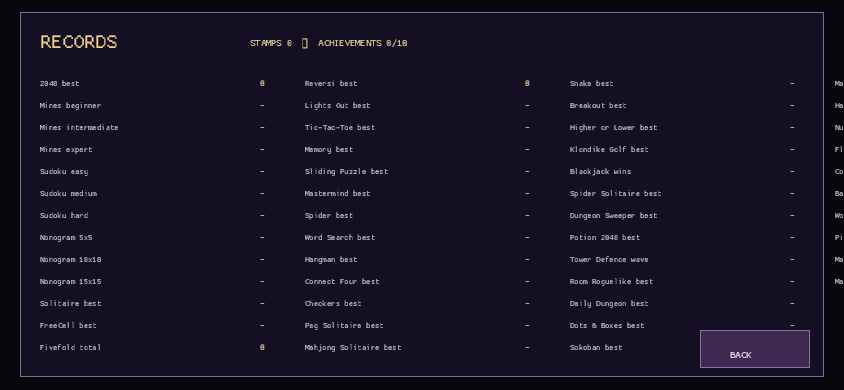
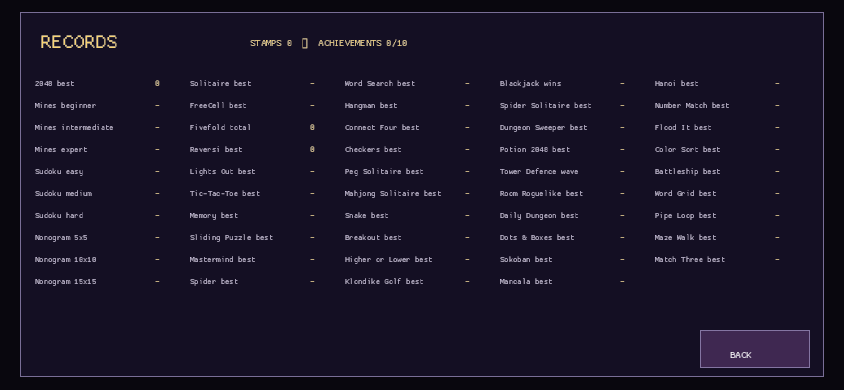
The quiet milestones fit every drawer (full-cabinet records capacity polish)
Desktop and medium-landscape records now reflow all forty-three game entries into compact columns that stay inside their panels. Portrait records retain their readable two-column layout and clear BACK control, and the refreshed captures document the complete records surface.\n\nThe full test, lint, size, capture, and publisher gates pass for the expanded collection.

diff --git a/src/records_ui.rs b/src/records_ui.rs
@@ -221,31 +221,24 @@ pub fn draw_records(state: &AppState) {
             value(state.records.match_three_best_score.map(u32::from)),
         ),
     ];
-    draw_column(&left, 175., 240.);
-    draw_column(&middle, 490., 240.);
-    draw_column(&right, 805., 240.);
-    draw_column(&far_right, 980., 240.);
+    let mut rows = Vec::new();
+    rows.extend(left);
+    rows.extend(middle);
+    rows.extend(right);
+    rows.extend(far_right);
+    for (index, (label, score)) in rows.iter().enumerate() {
+        let column = index / 10;
+        let row = index % 10;
+        let x = 160. + column as f32 * 200.;
+        let y = 240. + row as f32 * 32.;
+        draw_text(label, x, y, 10., Color::new(0.78, 0.73, 0.86, 1.));
+        draw_text(score, x + 150., y, 11., Color::new(0.98, 0.83, 0.45, 1.));
+    }
     panel(
         Rect::new(930., 590., 180., 48.),
         Color::new(0.25, 0.16, 0.32, 1.),
     );
     draw_text("BACK", 990., 621., 18., WHITE);
-}
-fn draw_column(entries: &[(&str, String)], x: f32, y: f32) {
-    for (index, (label, value)) in entries.iter().enumerate() {
-        let column = index / 9;
-        let row = index % 9;
-        let left = x + column as f32 * 175.;
-        let top = y + row as f32 * 42.;
-        draw_text(label, left, top, 13., Color::new(0.78, 0.73, 0.86, 1.));
-        draw_text(
-            value,
-            left + 145.,
-            top,
-            14.,
-            Color::new(0.98, 0.83, 0.45, 1.),
-        );
-    }
 }
 pub fn records_clicks(p: Vec2) -> Vec<UiAction> {
     if Rect::new(930., 590., 180., 48.).contains(p) {

diff --git a/src/responsive_landscape_library.rs b/src/responsive_landscape_library.rs
@@ -198,12 +198,12 @@ pub fn draw_records(state: &AppState) {
         ),
     ];
     for (index, (label, score)) in rows.iter().enumerate() {
-        let col = index / 13;
-        let row = index % 13;
+        let col = index / 10;
+        let row = index % 10;
         let y = 86. + row as f32 * 22.;
-        let x = 40. + col as f32 * 265.;
+        let x = 35. + col as f32 * 155.;
         text(label, x, y, 10., Color::new(0.78, 0.73, 0.86, 1.));
-        text(score, x + 220., y, 11., Color::new(0.98, 0.83, 0.45, 1.));
+        text(score, x + 120., y, 11., Color::new(0.98, 0.83, 0.45, 1.));
     }
     back(Rect::new(700., 330., 110., 38.));
 }

diff --git a/TODO.md b/TODO.md
@@ -624,6 +624,14 @@ sizes, covered by rule tests, and passes `publish.ps1`.
   - [x] Cover late-game tutorial indexing, round-trip persistence, and legacy
     save migration with focused state tests.
 
+## Phase 46 — Full-cabinet records capacity polish
+
+- [x] Reflow desktop and medium-landscape records so all forty-three game
+  records stay inside their panels after the cabinet expansion.
+  - [x] Keep every record label/value pair readable without right-edge clipping.
+  - [x] Preserve the portrait two-column layout and clear BACK targets.
+  - [x] Recapture records at desktop, portrait, and landscape sizes.
+
 ## Post-launch candidates (not scheduled)
 
 - Puzzles/tabletop: no remaining scheduled candidates.
